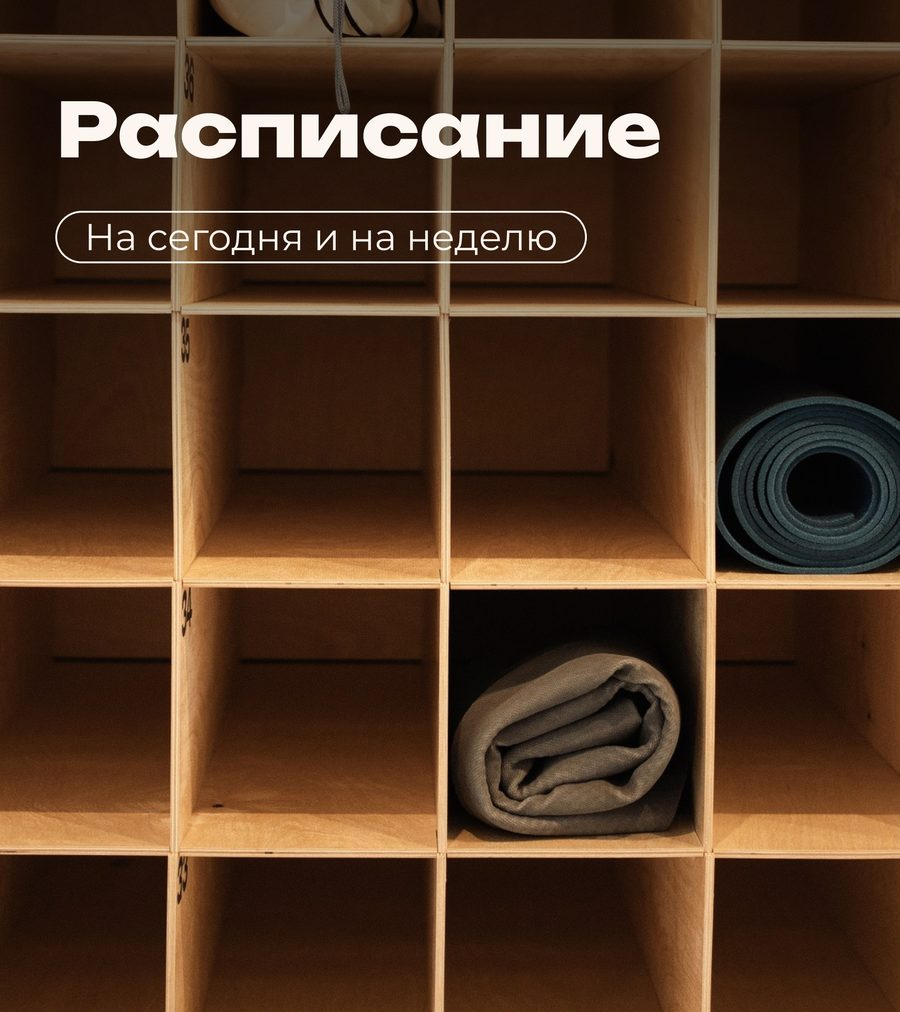
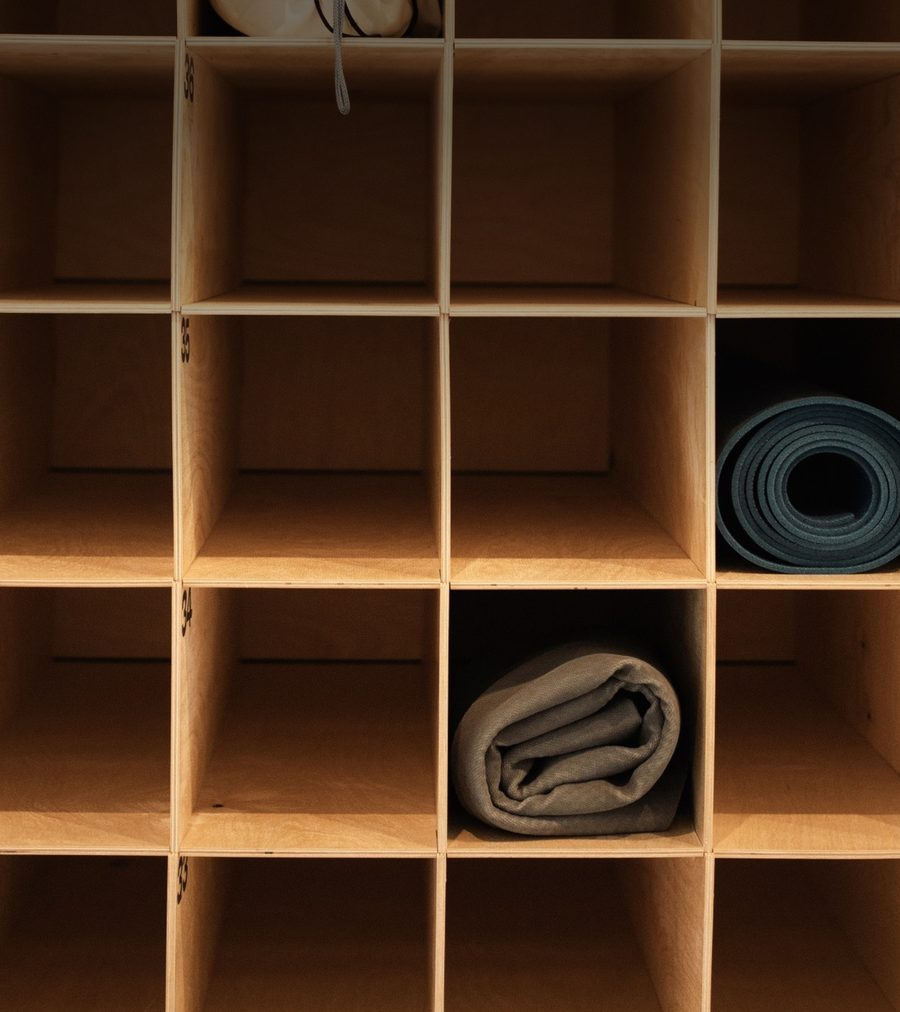
Add files via upload

Changed region(s): [[0.0622, 0.0919, 0.7467, 0.1838], [0.0933, 0.2144, 0.6533, 0.2757]]

diff --git a/dashboard.html b/dashboard.html
@@ -110,6 +110,23 @@
   }
   .photo-card:active{ transform:scale(0.98); }
   .photo-card img{ width:100%; height:100%; object-fit:cover; object-position:top; display:block; }
+  .photo-card-overlay{
+    position:absolute; top:0; left:0; right:0;
+    padding: 28px 28px 0;
+    box-sizing:border-box;
+    display:flex; flex-direction:column; align-items:flex-start; gap:14px;
+  }
+  .photo-card-overlay h3{
+    color:#fff; font-size:26px; font-weight:800; line-height:1.15;
+    text-shadow: 0 2px 10px rgba(0,0,0,.18);
+  }
+  .photo-card-overlay .pill{
+    display:inline-flex; align-items:center; max-width:100%; box-sizing:border-box;
+    border:1.5px solid rgba(255,255,255,.9); border-radius:999px;
+    padding: 12px 18px;
+    font-family:'Montserrat',sans-serif; font-size:.85rem; font-weight:500; color:#fff;
+    line-height:1.25; white-space:normal;
+  }
 
   /* ---------- SUBVIEW COMMON ---------- */
   .sub-inner{ padding: clamp(18px,2.6vw,34px); display:flex; flex-direction:column; gap:20px; flex:1; }
@@ -291,15 +308,31 @@
       <div class="photo-grid">
         <button class="photo-card" data-open="directions">
           <img src="assets/card-practices.jpg" alt="Практики — хатха, дживамукти, аштанга и другие">
+          <div class="photo-card-overlay">
+            <h3>Практики</h3>
+            <span class="pill">Хатха, дживамукти, аштанга и&nbsp;др</span>
+          </div>
         </button>
         <button class="photo-card" data-open="teachers">
           <img src="assets/card-teachers.jpg" alt="Преподаватели — афиши классов и мероприятий">
+          <div class="photo-card-overlay">
+            <h3>Преподаватели</h3>
+            <span class="pill">Афиши классов и&nbsp;мероприятий</span>
+          </div>
         </button>
         <button class="photo-card" data-open="schedule">
           <img src="assets/card-schedule.jpg" alt="Расписание — на сегодня и на неделю">
+          <div class="photo-card-overlay">
+            <h3>Расписание</h3>
+            <span class="pill">На&nbsp;сегодня и&nbsp;на&nbsp;неделю</span>
+          </div>
         </button>
         <button class="photo-card" data-open="prices">
           <img src="assets/card-prices.jpg" alt="Стоимость — разовые и пробные занятия, абонементы">
+          <div class="photo-card-overlay">
+            <h3>Стоимость</h3>
+            <span class="pill">Разовые занятия, абонементы</span>
+          </div>
         </button>
       </div>
     </div>
